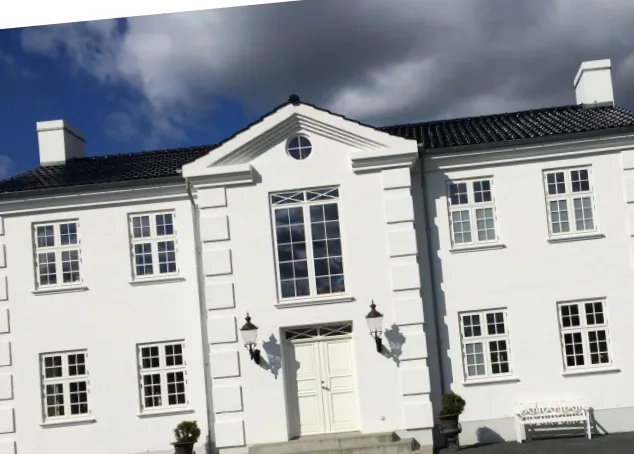
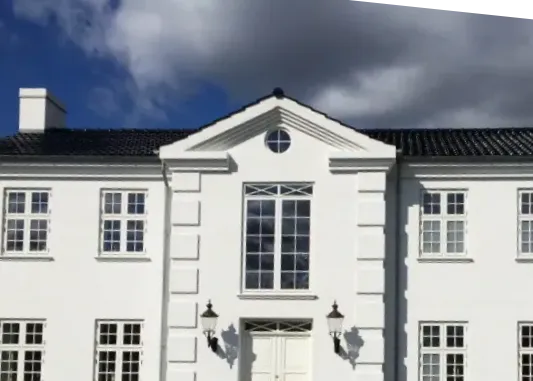
style: rotate Nørholmsvej english villa facade +6.0deg clockwise to straighten and update form disclaimers to only mention newsletter

diff --git a/components/CatalogDownloadModal.tsx b/components/CatalogDownloadModal.tsx
@@ -119,7 +119,7 @@ export default function CatalogDownloadModal({ mode, onClose }: CatalogDownloadM
           )}
 
           <p style={{ fontSize: "0.68rem", color: "var(--sub)", textAlign: "center", marginTop: "-0.5rem", marginBottom: "0.8rem", lineHeight: "1.4" }}>
-            Ved at indsende bekræfter du, at du accepterer at modtage nyhedsbrev samt eventuelt at blive kontaktet af tegnestuen.
+            Ved at indsende bekræfter du, at du accepterer at modtage nyhedsbrev.
           </p>
 
           <button type="submit" disabled={loading} style={{ width: "100%", background: "var(--text)", color: "#fff", border: "none", padding: "0.75rem", borderRadius: "8.14px", cursor: "pointer", fontWeight: 500, fontSize: "0.85rem" }}>

diff --git a/components/EmailPrisskoenModal.tsx b/components/EmailPrisskoenModal.tsx
@@ -165,7 +165,7 @@ Vejledende prisskøn:
               )}
 
               <p style={{ fontSize: "0.68rem", color: "var(--sub)", textAlign: "center", marginTop: "-0.5rem", marginBottom: "0.8rem", lineHeight: "1.4" }}>
-                Ved at indsende bekræfter du, at du accepterer at modtage nyhedsbrev samt eventuelt at blive kontaktet af tegnestuen.
+                Ved at indsende bekræfter du, at du accepterer at modtage nyhedsbrev.
               </p>
 
               <button type="submit" disabled={loading} style={{ width: "100%", background: "var(--text)", color: "#fff", border: "none", padding: "0.75rem", borderRadius: "8.14px", cursor: "pointer", fontWeight: 500, fontSize: "0.85rem" }}>

diff --git a/components/HeroForm.tsx b/components/HeroForm.tsx
@@ -85,7 +85,7 @@ export default function HeroForm() {
       )}
 
       <p style={{ fontSize: "0.68rem", color: "var(--sub)", textAlign: "center", marginTop: "-0.2rem", marginBottom: "0.8rem", lineHeight: "1.4" }}>
-        Ved at sende bekræfter du, at du accepterer at modtage nyhedsbrev samt eventuelt at blive kontaktet af tegnestuen.
+        Ved at sende bekræfter du, at du accepterer at modtage nyhedsbrev.
       </p>
 
       <button type="submit" disabled={loading}>
